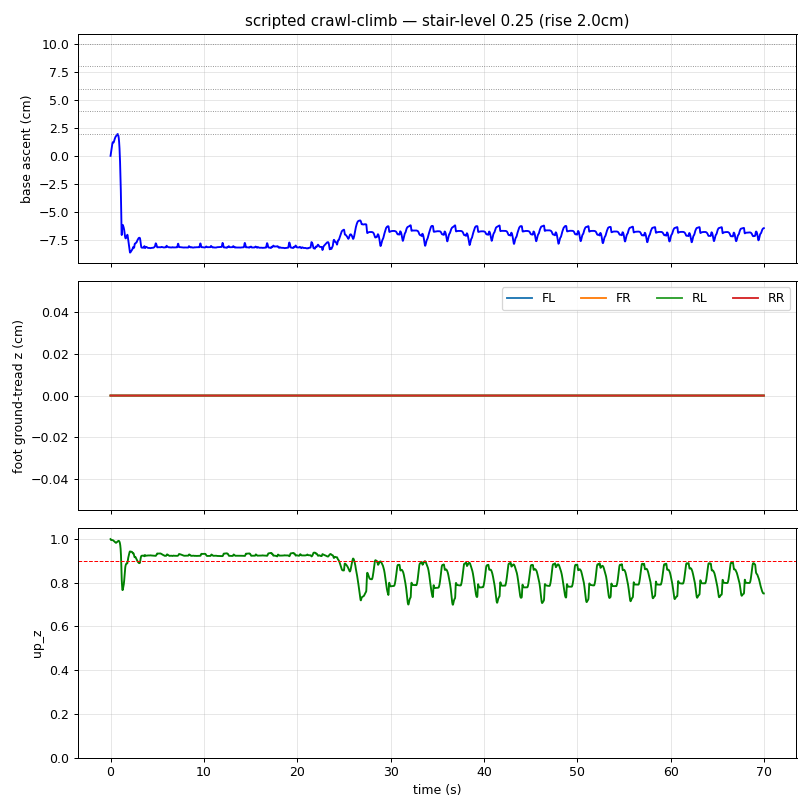
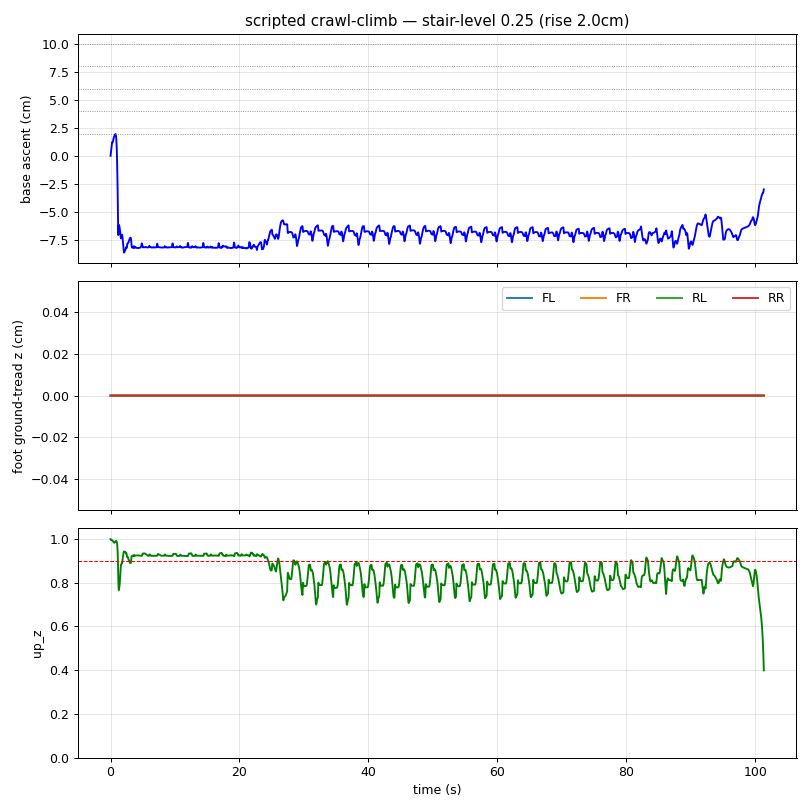
sim: bounded stair retest on the fixed stack — v9 imitation is dead, on evidence
The v9 premise gate had never run with correct kinematics, so it was retested
once, with a hard cap. Two new levers were added first, because the old plan
never used them:

  --body-lift   raise the commanded body z in proportion to the riser a climbing
                swing must gain. probe_posture_search measured 13.59 cm of
                clearance available across body height + pitch + abduction vs the
                5.69 cm the fixed-height plan used.
  --clonable    clamp commands into the +-ACTION_SCALE band a tanh policy can
                express. v9 IS behaviour cloning, so an expert that only works
                outside the student's action space is worthless.

RESULT 1 — the expert is NOT CLONABLE, and not marginally. Clamping to the
student's action space does not degrade the gait, it REVERSES it:

    plain      base x travel  +22.65 cm
    --clonable base x travel  -18.89 cm

65% of its joint commands were already out of band; its forward propulsion
depends on them entirely. Even a climbing expert would not transfer.

RESULT 2 — it still does not climb. Of three long configs only one reached the
stairs at all, and it managed 0.02 risers:

    long_baseline           travel 24.63  fell @5267  stairs NEVER REACHED
    long_bodylift           travel 27.10  fell @5067  stairs NEVER REACHED
    long_ab_small (2cm ab)  travel 36.63  survived    REACHED, climbed 0.02

TWO BUGS IN MY OWN NEW CODE, both caught by instrumentation rather than review:
[…]

diff --git a/sim/nova_mjx/scripted_crawl_climber.py b/sim/nova_mjx/scripted_crawl_climber.py
@@ -141,6 +141,18 @@ SWING_ABDUCT = 0.0        # THE HIP-OPENING LIFT (m): outboard bulge applied to 
 #                         # less fold. Max swing-foot lift: 5.69 cm at 0 abduction ->
 #                         # 8.40 cm at +4 cm. That is the difference between clearing
 #                         # a riser and raising Unreachable.
+BODY_LIFT = 0.0           # RAISE the commanded body z by this fraction of the riser the
+#                         # SWING foot must gain (m per m). The plan holds body z at a FIXED
+#                         # height above the mean tread, so 100% of a step-up has to come out
+#                         # of the swing leg's own fold — probe_posture_search measured 13.59 cm
+#                         # of clearance available across body height + pitch + abduction vs
+#                         # the 5.69 cm this fixed-height plan uses. Raising the body during a
+#                         # climbing swing is clearance the swing leg never has to pay for.
+CLONABLE = False          # clamp every commanded joint into the +-ACTION_SCALE band a tanh
+#                         # policy can express. THE POINT OF v9 IS BEHAVIOUR CLONING: an expert
+#                         # that only climbs by leaving the student's action space is worthless.
+#                         # 47-65%% of this expert's commands were out of band, so a success
+#                         # without this flag proves nothing about clonability.
 ABDUCT_CLIMB = 0.0        # EXTRA outboard per metre of foot RISE the swing must make
 #                         # (landing tread above liftoff tread). This is the "robot
 #                         # understands it can open the hips to gain clearance" term:
@@ -345,7 +357,15 @@ def run(env, jit_reset, jit_step, stair_level, n_steps, seed=0):
         front_t = treads_now[FRONT_IDX].mean(); rear_t = treads_now[REAR_IDX].mean()
         spread = float(treads_now.max() - treads_now.min())      # feet straddling a riser
         # body z: track the treads + lift the front onto the step; pitch to the slope.
-        body_z = float(treads_now.mean()) + BODY_H + amp * FRONT_LIFT * (front_t - rear_t)
+        # BODY_LIFT: while a foot is climbing to a higher tread, raise the whole body
+        # in proportion. Clearance bought here is clearance the swing leg does not
+        # have to fold for — the lever the fixed-height plan never used.
+        climb_need = 0.0
+        if sw_leg >= 0:
+            climb_need = max(0.0, float(foothold[sw_leg, 2] - swing_from[sw_leg, 2]))
+        body_z = (float(treads_now.mean()) + BODY_H
+                  + amp * FRONT_LIFT * (front_t - rear_t)
+                  + amp * BODY_LIFT * climb_need)
         pitch = amp * PITCH_GAIN * np.arctan2(front_t - rear_t, 2 * abs(HB[0, 0]))
         body_y = 0.0
         if sw_leg >= 0:
@@ -391,7 +411,6 @@ def run(env, jit_reset, jit_step, stair_level, n_steps, seed=0):
             if a is None:
                 n_unreach += 1
             else:
-                act += a
                 knee_kf[i] = kf
                 n_flip += int(flipped)
                 # CLONABILITY: a tanh policy outputs a in [-1,1], so env.step can only
@@ -399,6 +418,12 @@ def run(env, jit_reset, jit_step, stair_level, n_steps, seed=0):
                 # such cap here, but anything it commands beyond the band CANNOT be
                 # reproduced by the policy that is supposed to clone it.
                 n_outband += int(np.sum(np.abs(a) > 1.0))
+                if CLONABLE:
+                    # CLAMP BEFORE ACCUMULATING. Clipping after `act += a` mutates a
+                    # dead local and changes nothing — every --clonable run came out
+                    # byte-identical to its unclamped twin until this was fixed.
+                    a = np.clip(a, -1.0, 1.0)
+                act += a
 
         state = _pin(state)
         state = jit_step(state, jp.asarray(act))
@@ -557,6 +582,12 @@ def main():
     ap.add_argument("--swing-abduct", type=float, default=None,
                     help="outboard bulge (m) on the SWING foot at mid-swing — the "
                          "hip-opening clearance gain")
+    ap.add_argument("--body-lift", type=float, default=None,
+                    help="raise the body by this fraction of the riser a climbing "
+                         "swing must gain (m/m); the lever the fixed-height plan never used")
+    ap.add_argument("--clonable", action="store_true",
+                    help="clamp commands into the +-ACTION_SCALE band a tanh policy can "
+                         "express — a climb that needs more is not clonable")
     ap.add_argument("--abduct-climb", type=float, default=None,
                     help="extra swing abduction per metre of riser being climbed")
     ap.add_argument("--com-gain", type=float, default=None)
@@ -578,10 +609,12 @@ def main():
     args = ap.parse_args()
 
     global GAIT_FREQ, STEP_FWD, FWD_LEAN, CLEARANCE, COM_GAIN, PITCH_GAIN, RAMP_CYCLES
-    global SPLAY, SWING_ABDUCT, ABDUCT_CLIMB
+    global SPLAY, SWING_ABDUCT, ABDUCT_CLIMB, BODY_LIFT, CLONABLE
     if args.splay is not None: SPLAY = args.splay
     if args.swing_abduct is not None: SWING_ABDUCT = args.swing_abduct
     if args.abduct_climb is not None: ABDUCT_CLIMB = args.abduct_climb
+    if args.body_lift is not None: BODY_LIFT = args.body_lift
+    CLONABLE = args.clonable
     if args.freq is not None: GAIT_FREQ = args.freq
     if args.step_fwd is not None: STEP_FWD = args.step_fwd
     if args.fwd_lean is not None: FWD_LEAN = args.fwd_lean
@@ -617,7 +650,8 @@ def main():
     print(f"neutral canonical foot: x0={_X0:+.5f} d={_D:.5f} z0={_Z0:+.5f}")
     print(f"gait freq={GAIT_FREQ}Hz duty={DUTY} order(RL,FL,RR,FR) step_fwd={STEP_FWD} "
           f"fwd_lean={FWD_LEAN} clearance={CLEARANCE} com_gain={COM_GAIN} pitch={PITCH_GAIN} "
-          f"splay={SPLAY} swing_abduct={SWING_ABDUCT} abduct_climb={ABDUCT_CLIMB}")
+          f"splay={SPLAY} swing_abduct={SWING_ABDUCT} abduct_climb={ABDUCT_CLIMB} "
+          f"body_lift={BODY_LIFT} clonable={CLONABLE}")
 
     if args.eff_scale != 1.0:
         print(f"SERVO-UPGRADE PROBE: hfe/kfe stall {1.8*args.eff_scale:.2f} N*m "
